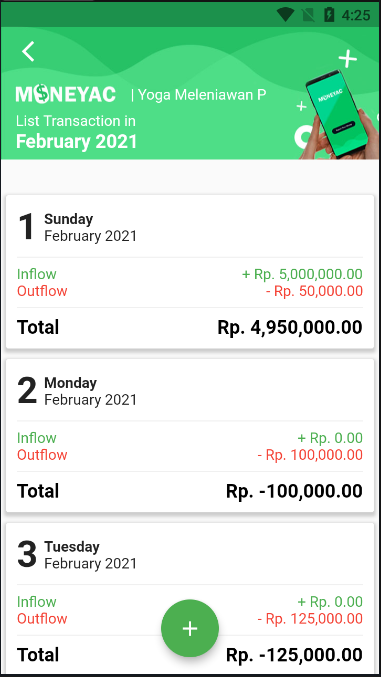
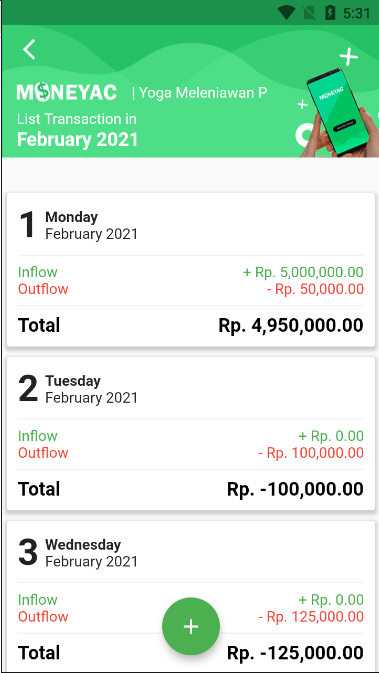
update weekdays

diff --git a/lib/pages/home_detail.dart b/lib/pages/home_detail.dart
@@ -342,20 +342,20 @@ class ListDataView extends StatelessWidget {
                       crossAxisAlignment: CrossAxisAlignment.start,
                       children: [
                         Text(
-                            document['weekday'].toString() == '1'
+                            document['weekday'].toString() == '7'
                                 ? "Sunday"
-                                : document['weekday'].toString() == '2'
+                                : document['weekday'].toString() == '1'
                                     ? "Monday"
-                                    : document['weekday'].toString() == '3'
+                                    : document['weekday'].toString() == '2'
                                         ? "Tuesday"
-                                        : document['weekday'].toString() == '4'
+                                        : document['weekday'].toString() == '3'
                                             ? "Wednesday"
                                             : document['weekday'].toString() ==
-                                                    '5'
+                                                    '4'
                                                 ? "Thursday"
                                                 : document['weekday']
                                                             .toString() ==
-                                                        '6'
+                                                        '5'
                                                     ? "Friday"
                                                     : "Saturday",
                             style: TextStyle(fontWeight: FontWeight.bold)),
